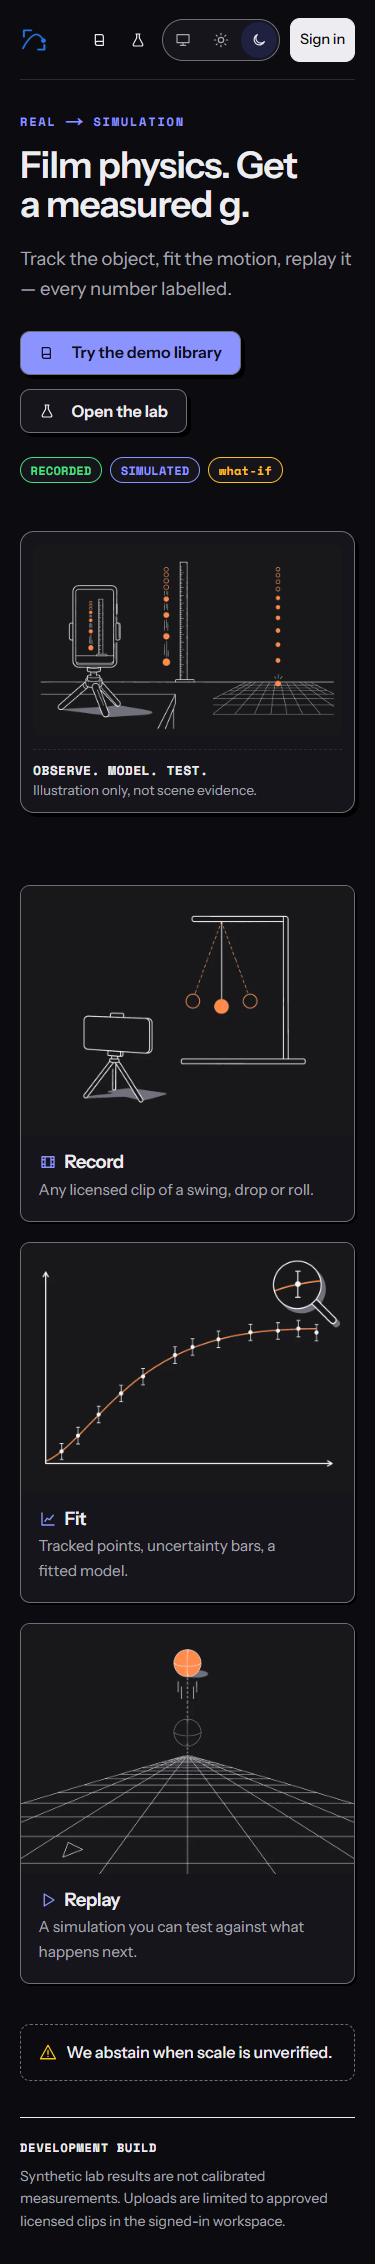
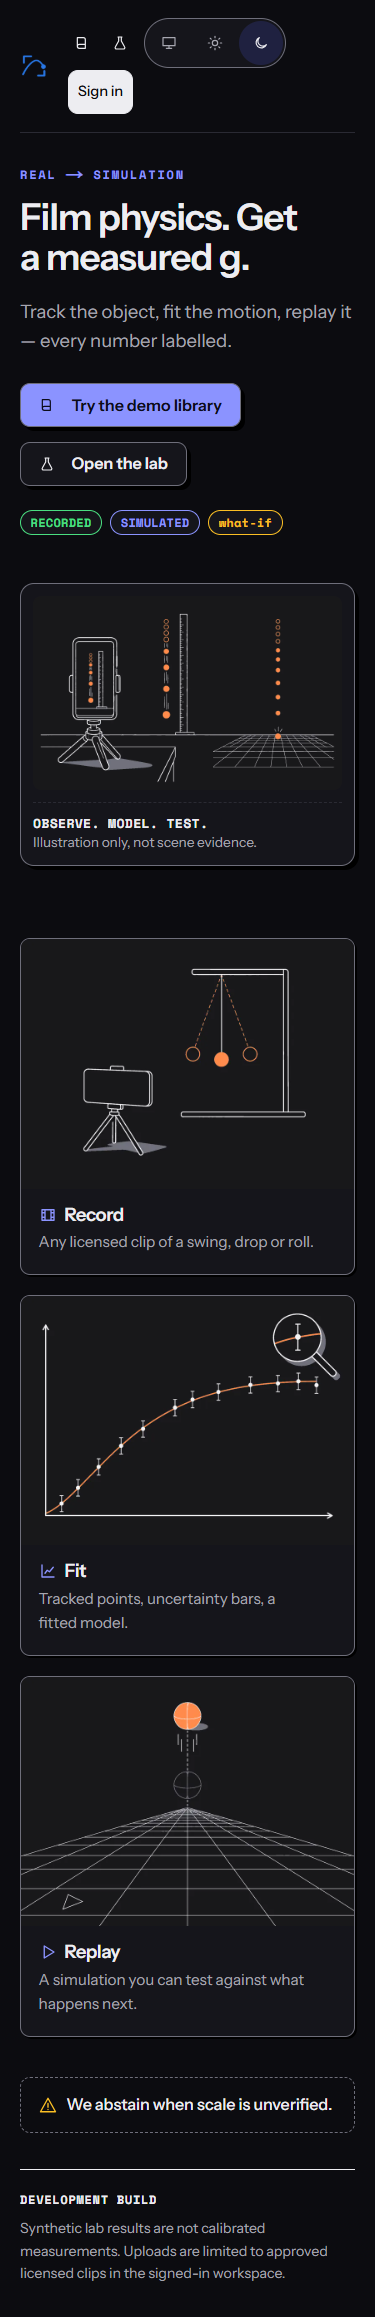
S15ai-orch198: 44px theme toggle targets; plan

diff --git a/Build/web/src/app/styles.css b/Build/web/src/app/styles.css
@@ -154,7 +154,7 @@ figcaption span { display: block; font: 400 .85rem/1.5 var(--r2s-font-sans); let
 .site-header { border-bottom-color: var(--r2s-border); }
 .site-header nav a .r2s-icon { margin-right: .4rem; flex: none; }
 .theme-toggle { display: inline-flex; gap: 2px; padding: 2px; margin-inline: .25rem; border: 1px solid var(--r2s-border-strong); border-radius: 999px; background: var(--r2s-surface); }
-.theme-toggle button { display: inline-grid; place-items: center; width: 2.25rem; height: 2.25rem; min-height: 0; padding: 0; margin: 0; border: 0; border-radius: 999px; background: transparent; color: var(--r2s-muted); box-shadow: none; }
+.theme-toggle button { display: inline-grid; place-items: center; width: 2.75rem; height: 2.75rem; min-height: 0; padding: 0; margin: 0; border: 0; border-radius: 999px; background: transparent; color: var(--r2s-muted); box-shadow: none; }
 .theme-toggle button:hover { transform: none; box-shadow: none; color: var(--r2s-ink); background: var(--r2s-bg); }
 .theme-toggle button[aria-pressed="true"] { background: var(--r2s-accent-soft); color: var(--r2s-ink); }
 .primary-link .r2s-icon, .secondary-link .r2s-icon { margin-right: .5rem; }

diff --git a/Run-System/Runs/S15ai-orch198/PLAN.md b/Run-System/Runs/S15ai-orch198/PLAN.md
@@ -1,0 +1,6 @@
+# S15ai-orch198 PLAN
+
+- Issued 2026-10-31T09:25:33Z; deadline 09:55:33Z (Dhaka 15:55:33); minute-25 cutoff 09:50:33Z. Worker anthropic/claude-opus-5-5/high (OpenCodex-managed; not polled). Project 91e441f8-e40c-4ec4-bea2-de7fa1582d97, worktree .worktrees/S15ai-orch198, branch run/S15ai-orch198 from main f5a3de4c.
+- Objective (QUEUE S15ai): public pages restyled with S15ah tokens/icons/theme toggle, S15ag logo, S15ak marketing art; labels verbatim; 375px no scroll; tests + build; Railway DEV web redeploy.
+- Owns: Build/web/src/ (excl. workspace/, shell/, app/(private)/ per controller amendment); Build/web/public/manifest* (not touched); tests/web-private/; evidence/S15ai/; this folder.
+- Order: header/metadata -> home hero+features -> token cleanup lab/library -> tests -> build -> screenshots -> rebase -> deploy -> report.
